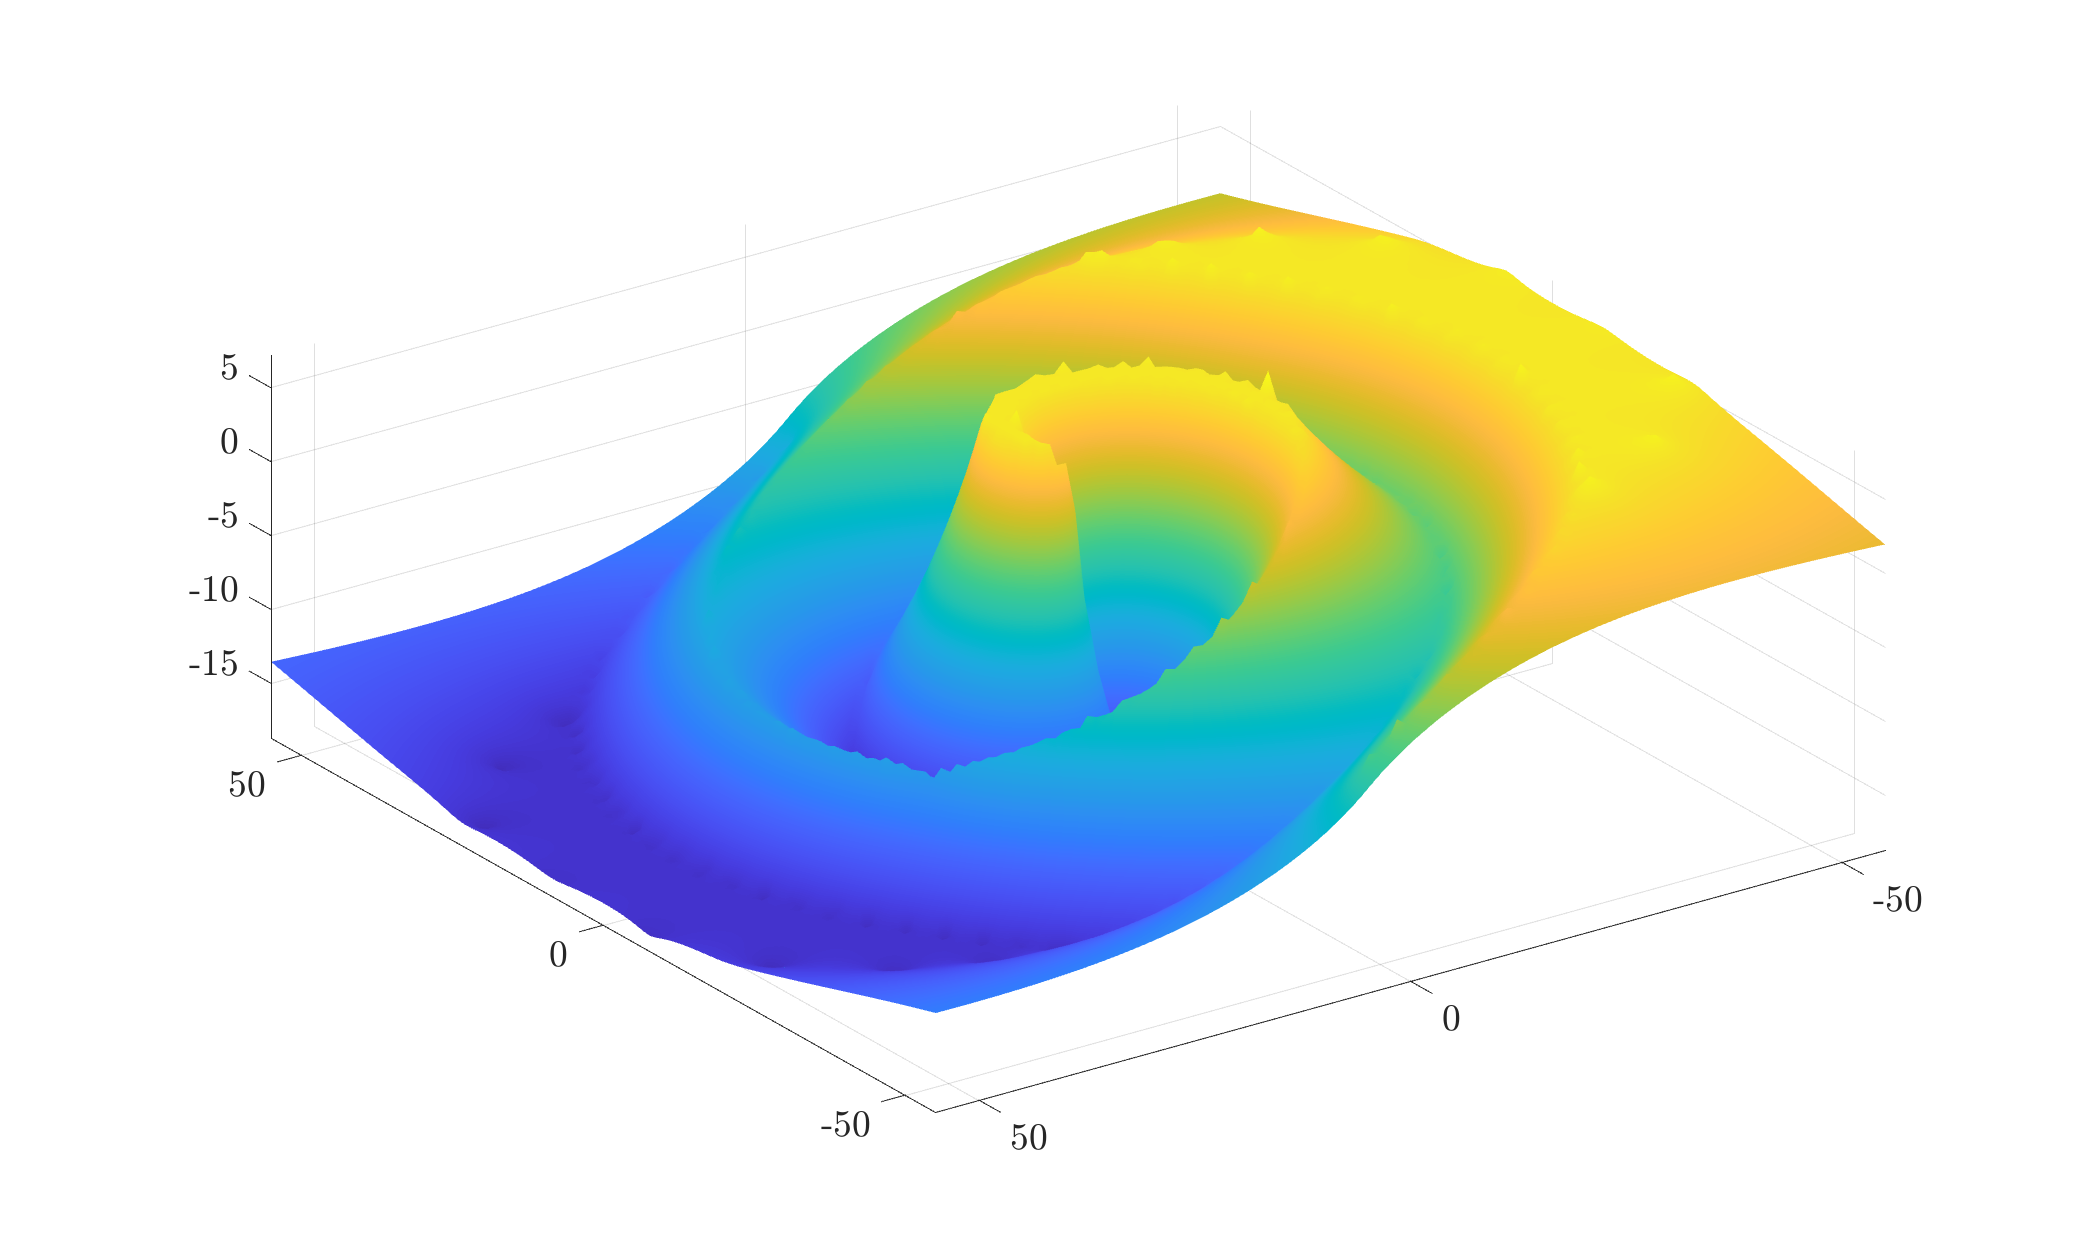
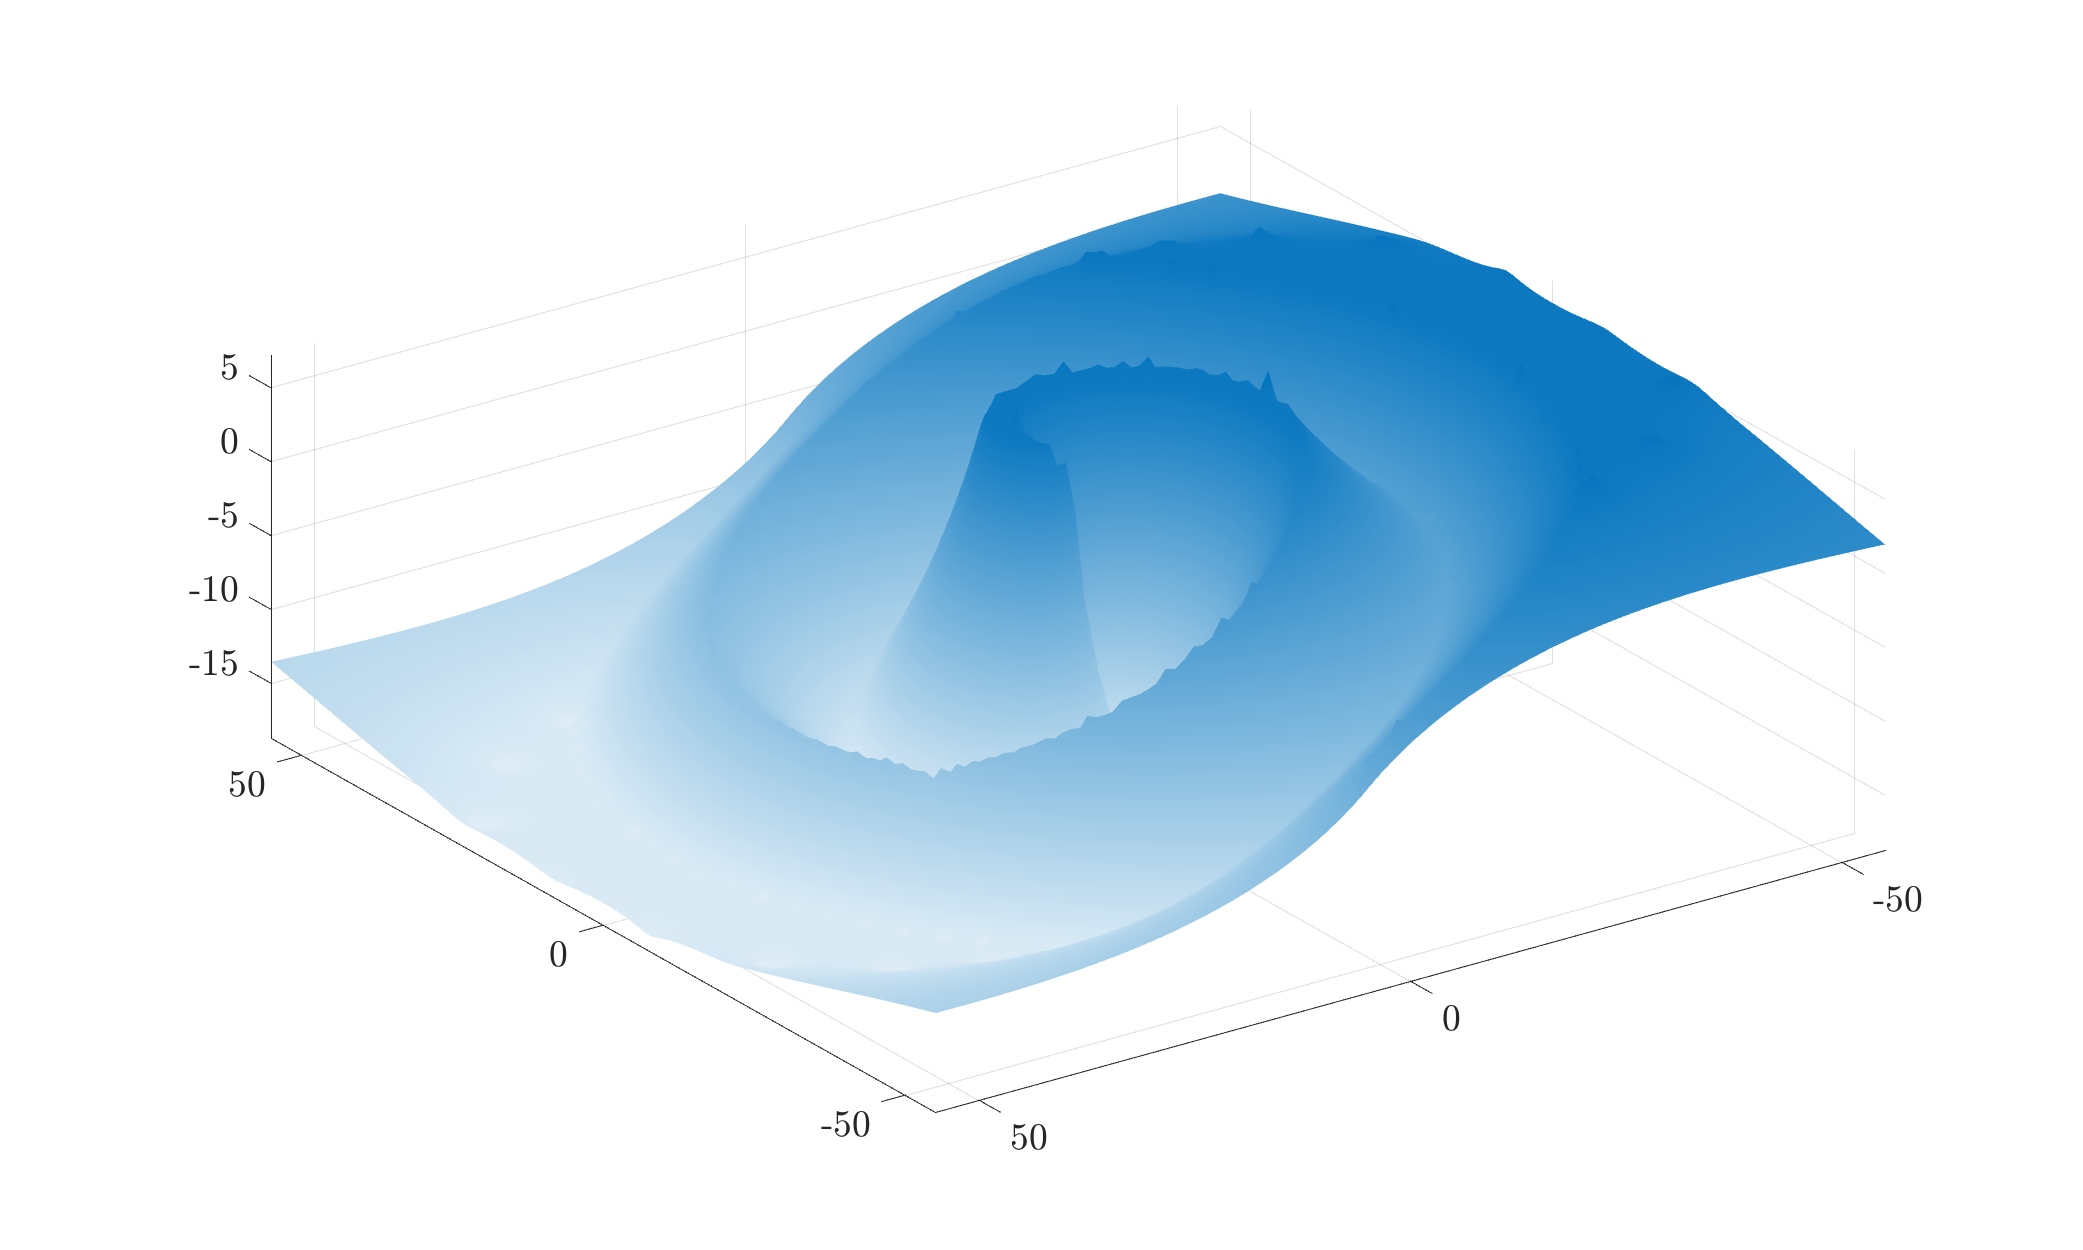
readme

Changed region(s): [[0.1248, 0.156, 0.9049, 0.8112]]

diff --git a/README.md b/README.md
@@ -17,6 +17,8 @@ The contributions and highlights of this paper, discovered through a comprehensi
 
 ![mLF](doc/pm2_2D.png "Z4 for Pac Man")
 
+![mLF](doc/spiral2_3D.png "Z4 for spiral")
+
 
 ## Main reference
 
